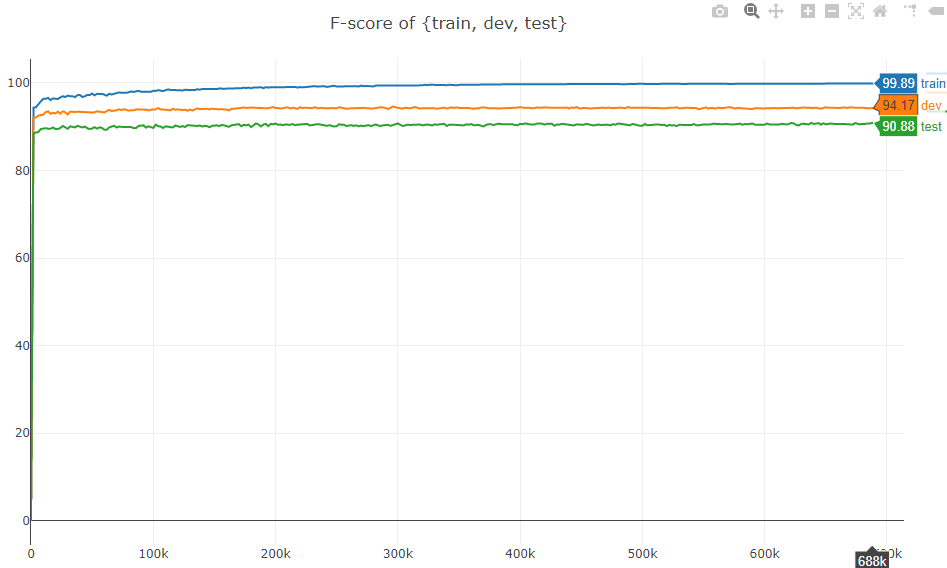
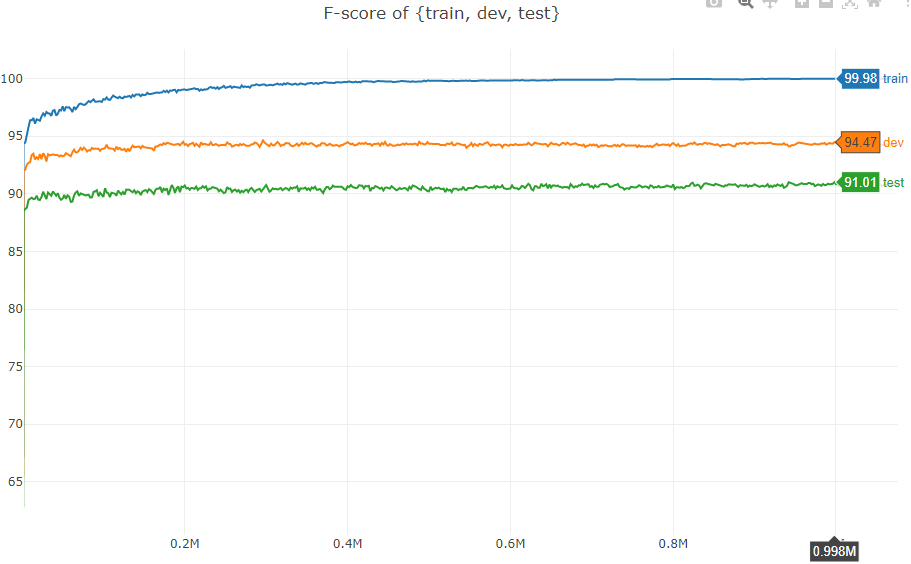
README

diff --git a/BiLSTM-CRF.py b/BiLSTM-CRF.py
@@ -303,6 +303,9 @@ class BiLSTM_CRF_MODIFY_PARALLEL(nn.Module):
         feats = self._get_lstm_features_parallel(sentences)
         forward_score = self._forward_alg_new_parallel(feats)
         gold_score = self._score_sentence_parallel(feats, tags)
+        print(forward_score)
+        print(gold_score)
+        print("--")
         return torch.sum(forward_score - gold_score)
 
     def forward(self, sentence):  # dont confuse this with _forward_alg above.

diff --git a/README.md b/README.md
@@ -1,30 +1,43 @@
 # NER-BiLSTM-CRF-PyTorch
 PyTorch implementation of a BiLSTM-CRF model for named entity recognition.
 
-## Paper
+## Requirements
+- Python 3
+- PyTorch 1.x
+
+## Papers
 - Bidirectional LSTM-CRF Models for Sequence Tagging (Huang et. al., 2015)
   - 首次将BiLSTM-CRF用于序列标注
 - Neural Architectures for Named Entity Recognition (Lample et. al., 2016)
   - 最大特点是在pre-trained word embedding（skip-n-gram）的基础上结合了character-based word embeddings，通过引入字符级特征提高了模型在NER任务中的表现
     - 90.94 in CoNLL 2003 (English)
     - 91.47 in CoNLL++
-- End-to-end Sequence Labeling via Bi-directional LSTM-CNNs-CRF
+- End-to-end Sequence Labeling via Bi-directional LSTM-CNNs-CRF (Ma et al., 2016)
+    - CNNs
 
-
-
-## Data
+## Dataset
 - CoNLL 2003 (English)
   - IOB tagging scheme (convert to IOBES)
 
+## Model
+- Embeddings
+    - 100d pre-trained word embedding with Glove
+    - 25d charactor embedding trained by CNNs (Ma et al., 2016)
+- BiLSTM-CRF (Lample et. al., 2016)
+
+## Results
+用 Tesla T4 训练一晚，约70个 epoch，test 集上 F1 达到 90.01
+
+![](images/result.png)
+
 ## Future Works
-- 后续paper：
-  - BiLSTM-CNN-CRF (Ma et al., 2016)
+- 后续 paper：
   - BiLSTM-CRF+ELMo ((Peters et al., 2018)
   - LM-LSTM-CRF (Liu et al., 2018)
   - Flair
   - ...
-- 中文NER
+- 中文 NER
 
 ## References
 - https://pytorch.org/tutorials/beginner/nlp/advanced_tutorial.html
-- 优化加速1000X版本：https://github.com/mali19064/LSTM-CRF-pytorch-faster/
+- https://github.com/ZhixiuYe/NER-pytorch
